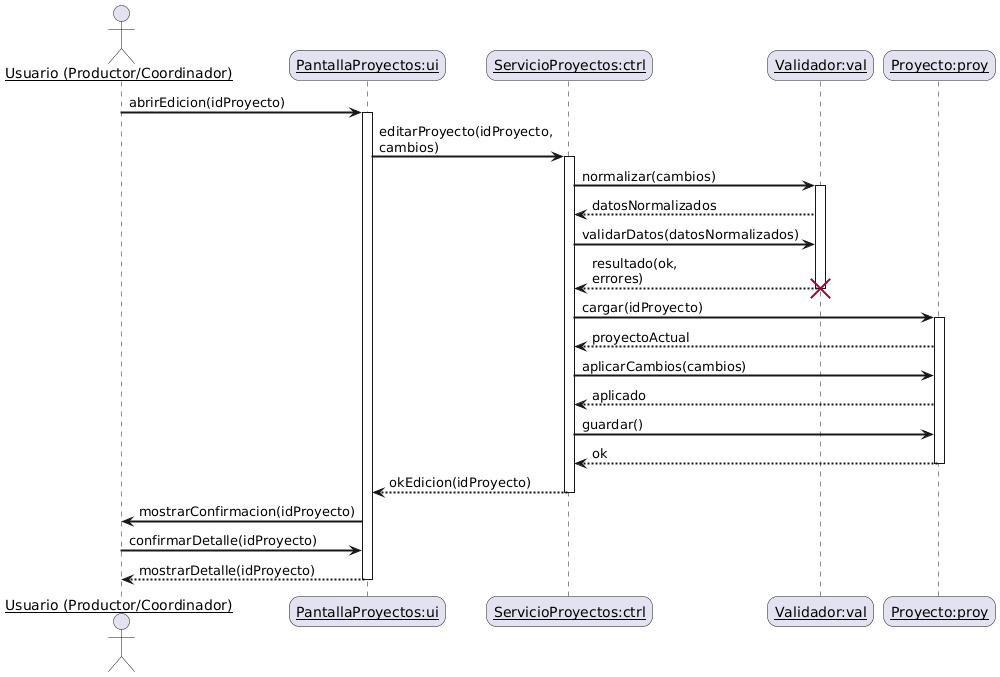
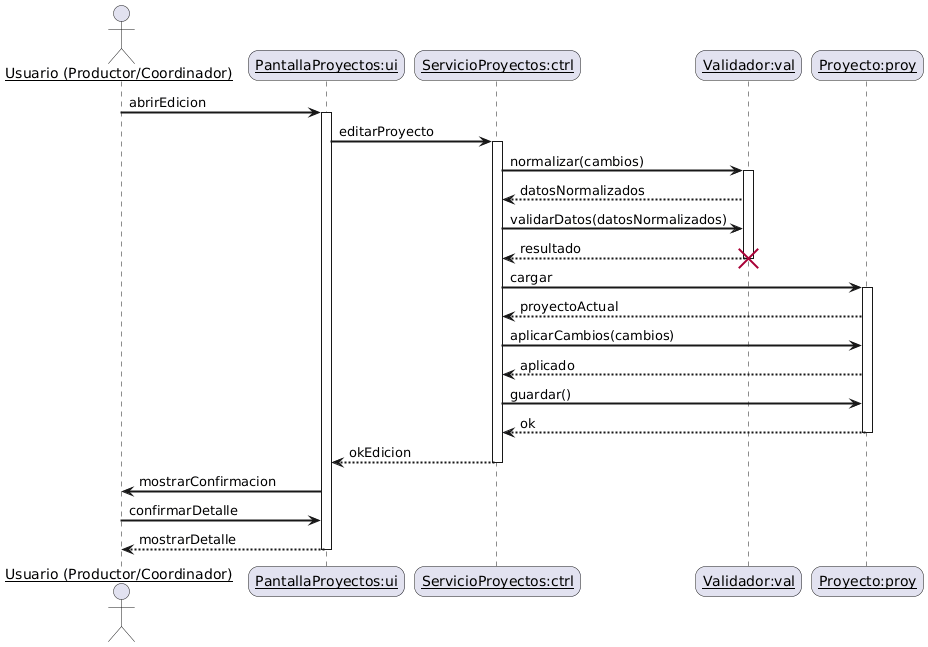
corrección de todos los diagramas de secuencia y del índice + changelog update

diff --git a/diagramas/05-diagramas-secuencia/diagramas_de_secuencias.md b/diagramas/05-diagramas-secuencia/diagramas_de_secuencias.md
@@ -1,15 +1,15 @@
-## Diagramas de Secuencia
+# Diagramas de Secuencia
 
-[Diagrama de secuencia – Editar Proyecto - Escenario 01](./05-secuencia-caso-uso-01-editar-proyecto-escenario-01.png)  
+[Diagrama de secuencia – Crear/Editar Proyecto - Creación/Edición Proyecto Exitoso](./05-secuencia-caso-uso-01-editar-proyecto-escenario-01.png)  
 
-[Diagrama de secuencia – Gestionar Etapas - Escenario 02](./05-secuencia-caso-uso-02-gestionar-etapas-escenario-02.png)
+[Diagrama de secuencia – Gestionar Etapas de un Proyecto - Agregación/edición/eliminación exitosa](./05-secuencia-caso-uso-02-gestionar-etapas-escenario-02.png)
 
-[Diagrama de secuencia – Asignar Responsable a Etapa - Escenario 03](./05-secuencia-caso-uso-03-asignar-responsable-etapa-escenario-03.png)
+[Diagrama de secuencia – Asignar Responsable a Etapa - Asignación exitosa responsable etapa](./05-secuencia-caso-uso-03-asignar-responsable-etapa-escenario-03.png)
 
-[Diagrama de secuencia – Cambiar Estado de Etapa - Escenario 04](./05-secuencia-caso-uso-04-cambiar-estado-etapa-escenario-04.png)
+[Diagrama de secuencia – Cambiar Estado de Etapa - Cambiar estado etapa exitoso](./05-secuencia-caso-uso-04-cambiar-estado-etapa-escenario-04.png)
 
-[Diagrama de secuencia – Consultar Reportes / Métricas - Escenario 05](./05-secuencia-caso-uso-05-consultar-reportes-escenario-05.png)
+[Diagrama de secuencia – Consultar Reportes/Métricas - Generación reporte exitoso](./05-secuencia-caso-uso-05-consultar-reportes-escenario-05.png)
 
-[Diagrama de secuencia – Mostrar Tablero - Escenario 06](./05-secuencia-caso-uso-06-mostrar-tablero-escenario-06.png)
+[Diagrama de secuencia – Mostrar Tablero de Control - Visualización exitosa tablero control](./05-secuencia-caso-uso-06-mostrar-tablero-escenario-06.png)
 
-[Diagrama de secuencia – Enviar Notificaciones Automáticas - Escenario 07](./05-secuencia-caso-uso-07-enviar-notificaciones-escenario-07.png)
+[Diagrama de secuencia – Enviar Notificaciones Automáticas - Envío notifiación automática exitosa](./05-secuencia-caso-uso-07-enviar-notificaciones-escenario-07.png)

diff --git a/changelog.md b/changelog.md
@@ -5,6 +5,18 @@ Este archivo se actualiza con cada Pull Request para registrar avances y correcc
 
 ## [Unreleased]
 
+## **Todos los cambios los voy a agregar en released en fixed luego de aprobación**
+
+- [release/actividad-obligatoria-3] Correcciones de todos los diagramas de secuencia, quitando id's y corrección de índice de diagramas de secuencia. 
+  PR: [#111](https://github.com/dantebiondi666-prog/SistemaProductoraVideos/pull/111) - @dantebiondi666-prog (Documentador y coordinador de repositorio), 
+  Issue: [#119](https://github.com/dantebiondi666-prog/SistemaProductoraVideos/issues/119)
+  Issue: [#120](https://github.com/dantebiondi666-prog/SistemaProductoraVideos/issues/120)
+  Issue: [#121](https://github.com/dantebiondi666-prog/SistemaProductoraVideos/issues/121)
+  Issue: [#122](https://github.com/dantebiondi666-prog/SistemaProductoraVideos/issues/122)
+  Issue: [#123](https://github.com/dantebiondi666-prog/SistemaProductoraVideos/issues/123)
+  Issue: [#124](https://github.com/dantebiondi666-prog/SistemaProductoraVideos/issues/124)
+  Issue: [#125](https://github.com/dantebiondi666-prog/SistemaProductoraVideos/issues/125)
+
 - [release/actividad-obligatoria-3] Correcciones en diagrama de actividades 07. Corrección de notas reemplazando aclaraciones dentro de actividad. Corrección de loop. 
   PR: [#111](https://github.com/dantebiondi666-prog/SistemaProductoraVideos/pull/111) - @dantebiondi666-prog (Documentador y coordinador de repositorio), 
   Issue: [#118](https://github.com/dantebiondi666-prog/SistemaProductoraVideos/issues/118)
